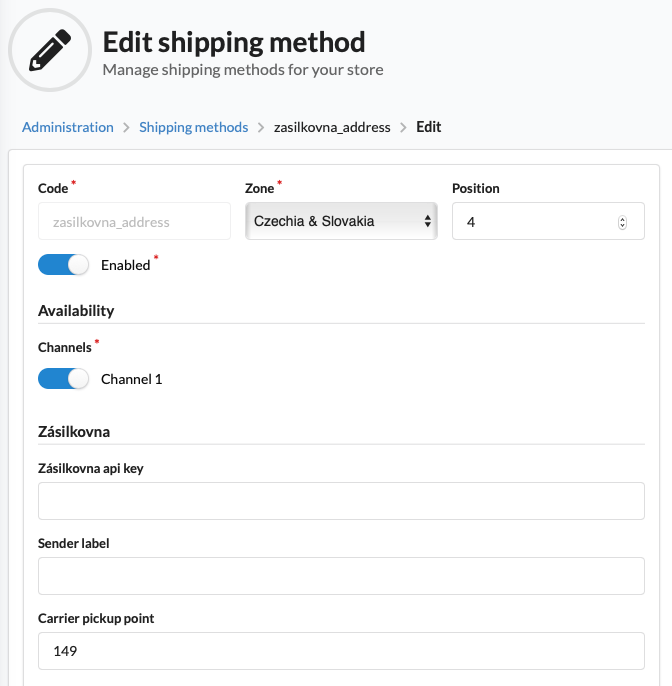
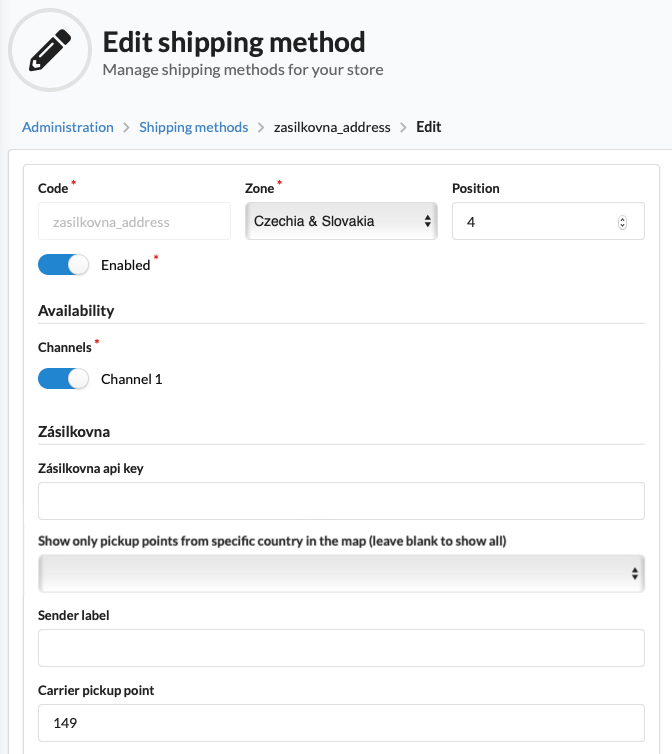
update readme to include new fields

diff --git a/README.md b/README.md
@@ -177,6 +177,7 @@ For the guide how to use your own entity see [Sylius docs - Customizing Models](
 
 * For delivery to the Zasilkovna branch, create new shipping method in the admin panel, set `Zásilkovna api key` and leave `Carrier ID` empty.
 * For delivery to customer's address, create new shipping method in the admin panel, set the `Carrier ID` and leave the `Zasilkovna API key` empty.
+* If you need to filter the points in the map by country, use the `Show only pickup points from specific country in the map`. If you leave this blank, all points in all supported countries will be shown.
 * Zásilkovna CSV export will be generated for shipping method which has the code 'zasilkovna', you can change this in parameters, it is an array (therefore can contain more codes, e.g. if you need to have different prices for different countries, you will need more shipping methods; it is okay to use always the same API key) 
   ```yaml
   parameters:
